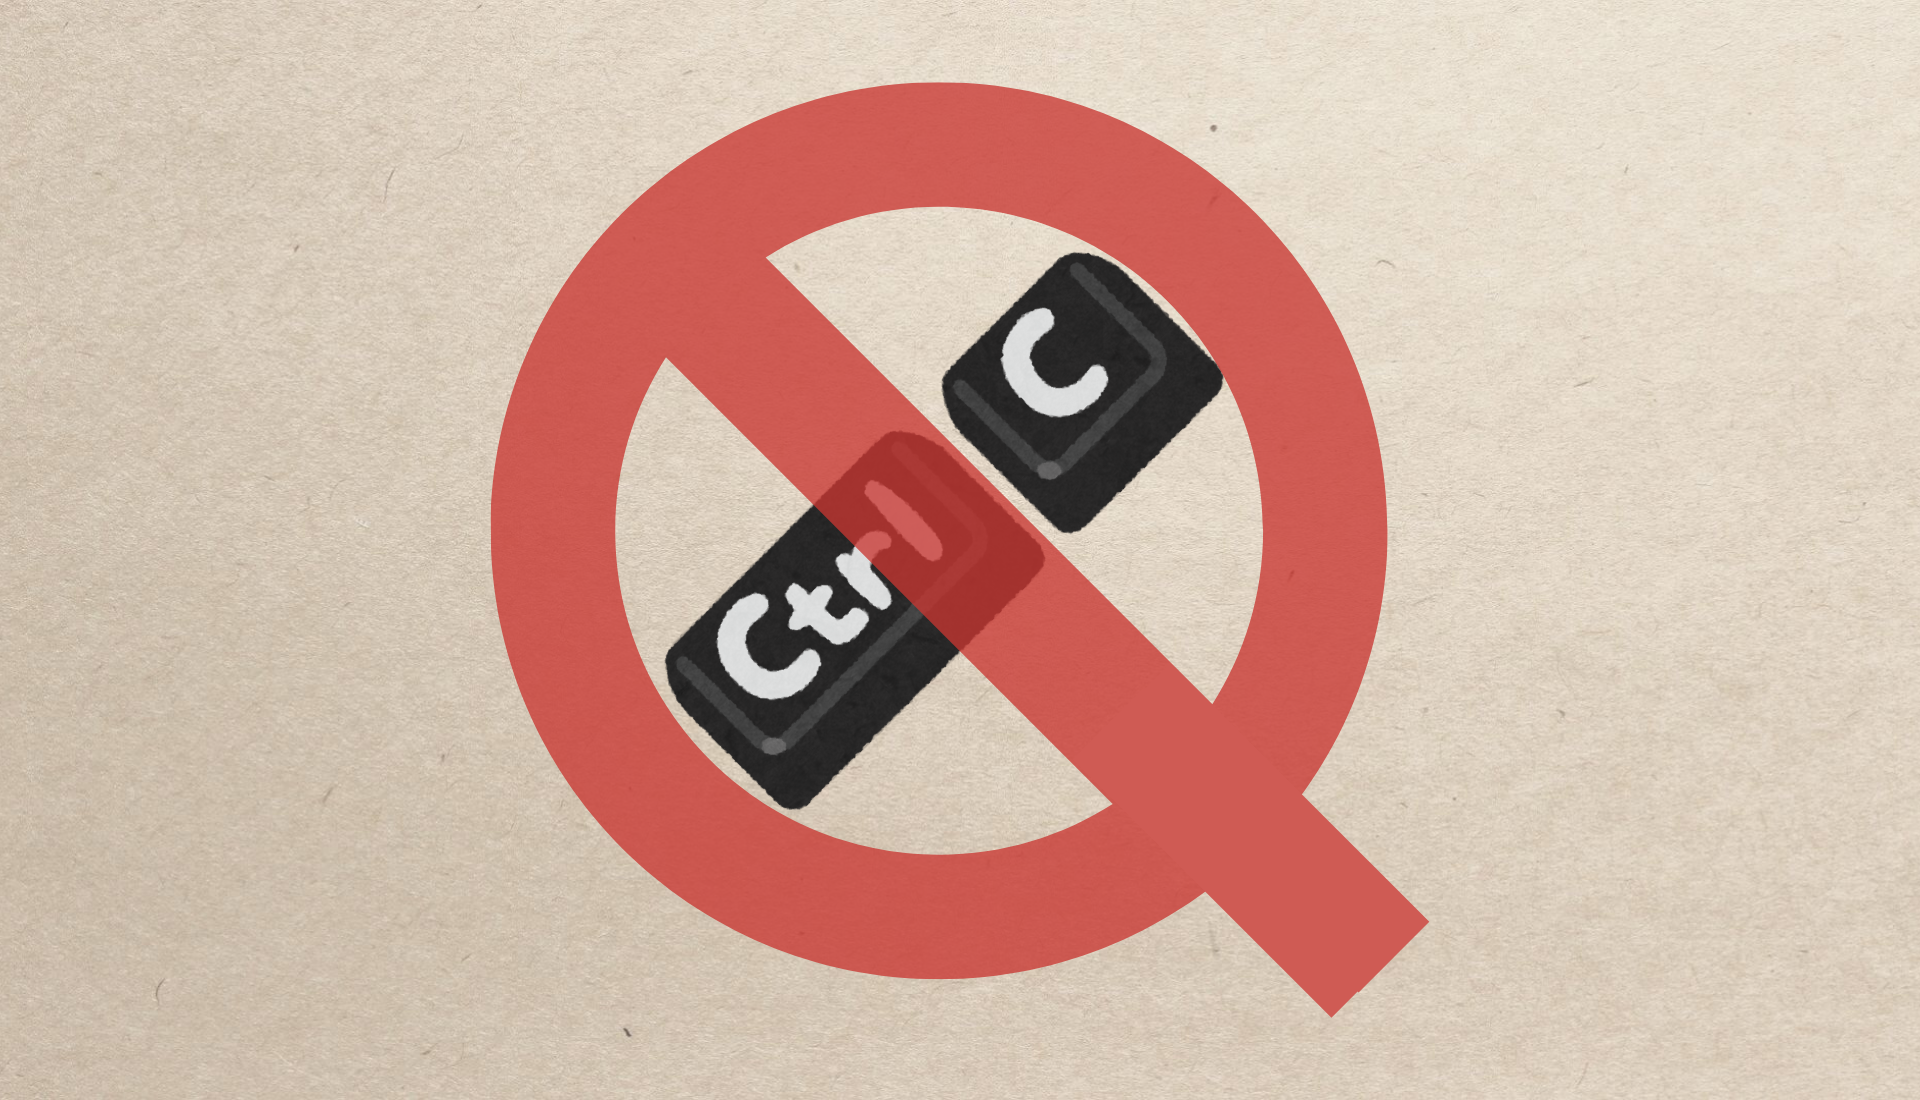
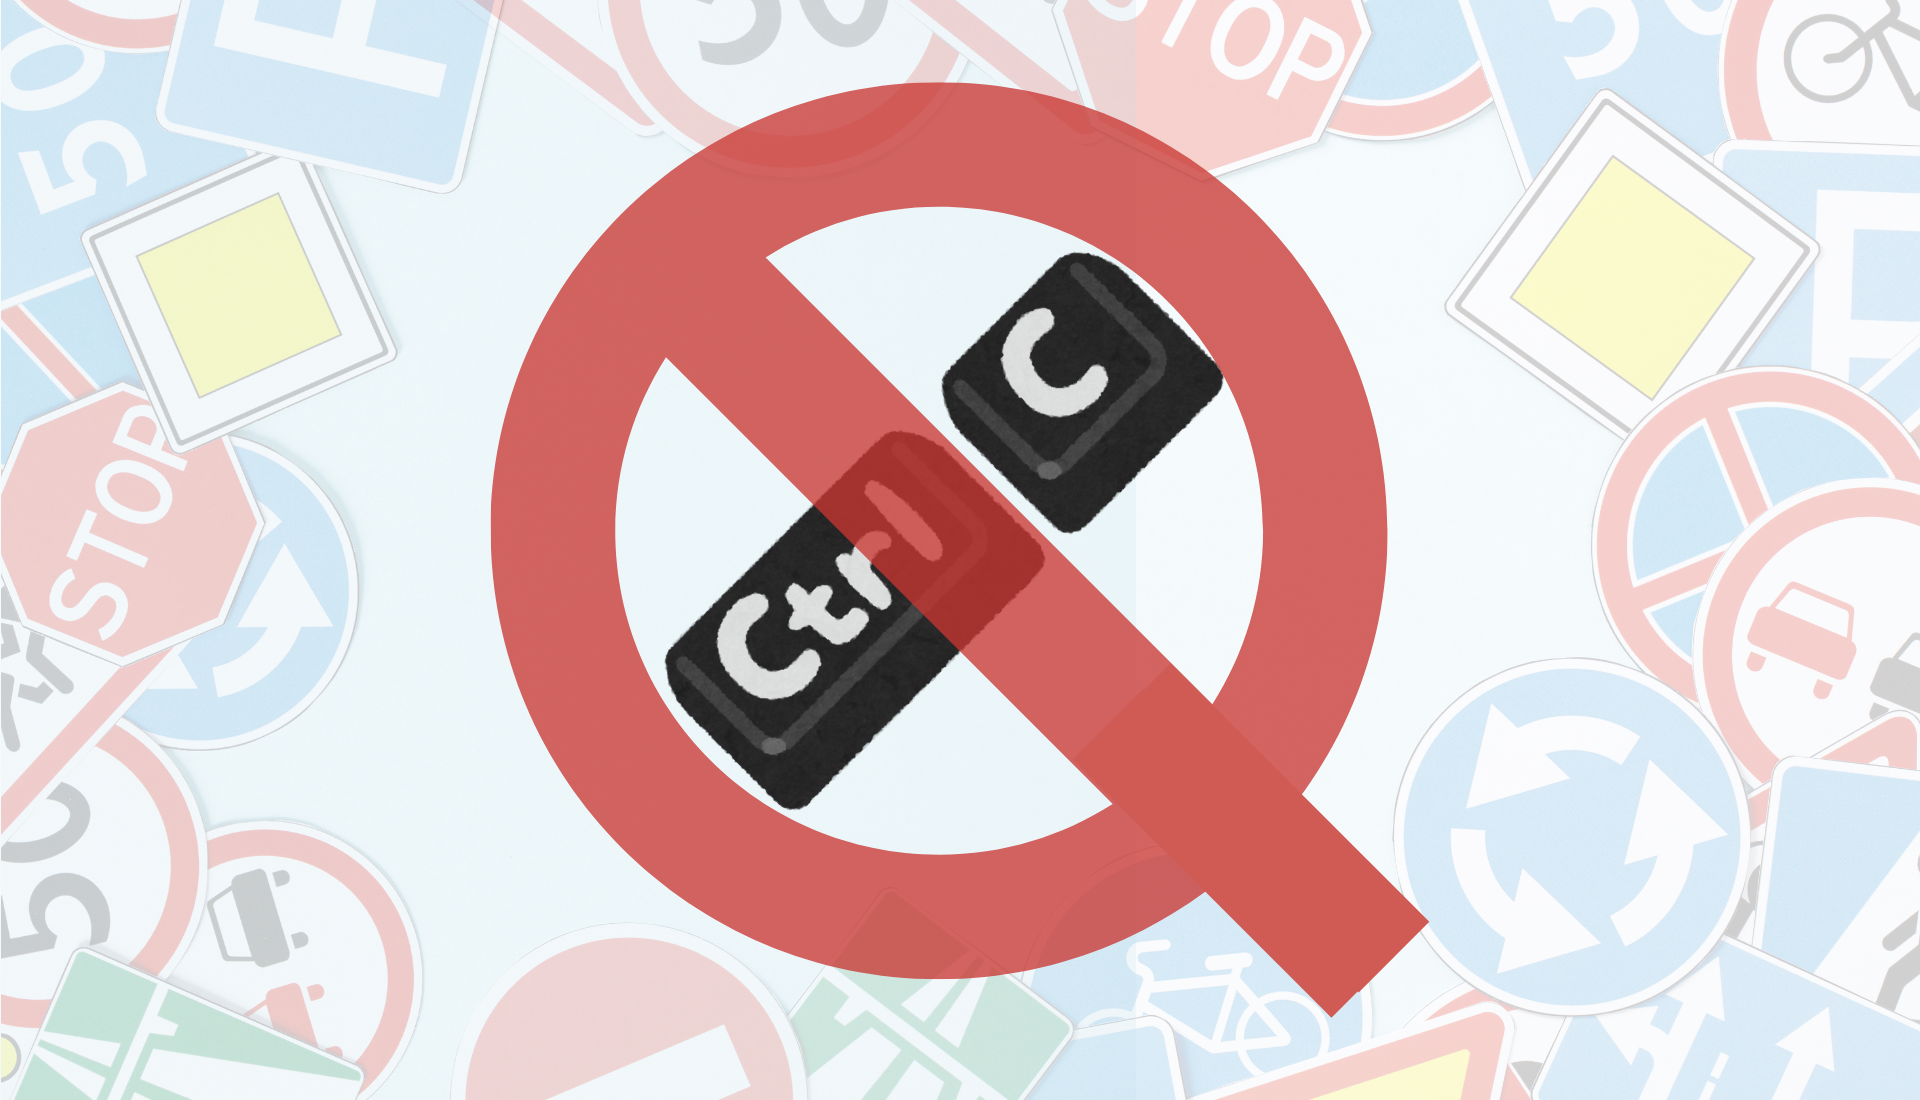
updated gh-pages

diff --git a/public/notes/non-cloning/index.html b/public/notes/non-cloning/index.html
@@ -801,12 +801,12 @@
       
         <source
           
-            srcset="/notes/non-cloning/feature-noncloning_hu7718420281847672114.webp 330w,/notes/non-cloning/feature-noncloning_hu16130180824793564255.webp 660w
+            srcset="/notes/non-cloning/feature-noncloning_hu14726802814231932415.webp 330w,/notes/non-cloning/feature-noncloning_hu18222401394861555926.webp 660w
             
-              ,/notes/non-cloning/feature-noncloning_hu12683304142738737389.webp 1024w
+              ,/notes/non-cloning/feature-noncloning_hu6983267446427681587.webp 1024w
             
             
-              ,/notes/non-cloning/feature-noncloning_hu162625252747219671.webp 1320w
+              ,/notes/non-cloning/feature-noncloning_hu2328856171462541880.webp 1320w
             "
           
           sizes="100vw"
@@ -820,13 +820,13 @@
         
         
         
-          src="/notes/non-cloning/feature-noncloning_hu16446638801911684839.png"
-          srcset="/notes/non-cloning/feature-noncloning_hu18145819139928087107.png 330w,/notes/non-cloning/feature-noncloning_hu16446638801911684839.png 660w
+          src="/notes/non-cloning/feature-noncloning_hu8326440764734785634.png"
+          srcset="/notes/non-cloning/feature-noncloning_hu10536045341934070960.png 330w,/notes/non-cloning/feature-noncloning_hu8326440764734785634.png 660w
           
-            ,/notes/non-cloning/feature-noncloning_hu7431688334514627036.png 1024w
+            ,/notes/non-cloning/feature-noncloning_hu9766048846868091805.png 1024w
           
           
-            ,/notes/non-cloning/feature-noncloning_hu15545458428903810226.png 1320w
+            ,/notes/non-cloning/feature-noncloning_hu14562356598286086200.png 1320w
           "
           sizes="100vw"
         

diff --git a/public/notes/index.html b/public/notes/index.html
@@ -685,9 +685,9 @@
         <img
           alt=""
           
-            class="w-24 rounded-md sm:w-40" srcset="/notes/non-cloning/feature-noncloning_hu5962788122823029852.png
-            160w,/notes/non-cloning/feature-noncloning_hu882940772248929171.png 2x"
-            src="/notes/non-cloning/feature-noncloning_hu5962788122823029852.png" width="160" height="120"
+            class="w-24 rounded-md sm:w-40" srcset="/notes/non-cloning/feature-noncloning_hu3388564150650689094.png
+            160w,/notes/non-cloning/feature-noncloning_hu18006617005534900456.png 2x"
+            src="/notes/non-cloning/feature-noncloning_hu3388564150650689094.png" width="160" height="120"
           
           
             loading="lazy"

diff --git a/public/tags/quantum/index.html b/public/tags/quantum/index.html
@@ -523,9 +523,9 @@
         <img
           alt=""
           
-            class="w-24 rounded-md sm:w-40" srcset="/notes/non-cloning/feature-noncloning_hu5962788122823029852.png
-            160w,/notes/non-cloning/feature-noncloning_hu882940772248929171.png 2x"
-            src="/notes/non-cloning/feature-noncloning_hu5962788122823029852.png" width="160" height="120"
+            class="w-24 rounded-md sm:w-40" srcset="/notes/non-cloning/feature-noncloning_hu3388564150650689094.png
+            160w,/notes/non-cloning/feature-noncloning_hu18006617005534900456.png 2x"
+            src="/notes/non-cloning/feature-noncloning_hu3388564150650689094.png" width="160" height="120"
           
           
             loading="lazy"

diff --git a/public/tags/states/index.html b/public/tags/states/index.html
@@ -411,9 +411,9 @@
         <img
           alt=""
           
-            class="w-24 rounded-md sm:w-40" srcset="/notes/non-cloning/feature-noncloning_hu5962788122823029852.png
-            160w,/notes/non-cloning/feature-noncloning_hu882940772248929171.png 2x"
-            src="/notes/non-cloning/feature-noncloning_hu5962788122823029852.png" width="160" height="120"
+            class="w-24 rounded-md sm:w-40" srcset="/notes/non-cloning/feature-noncloning_hu3388564150650689094.png
+            160w,/notes/non-cloning/feature-noncloning_hu18006617005534900456.png 2x"
+            src="/notes/non-cloning/feature-noncloning_hu3388564150650689094.png" width="160" height="120"
           
           
             loading="lazy"
